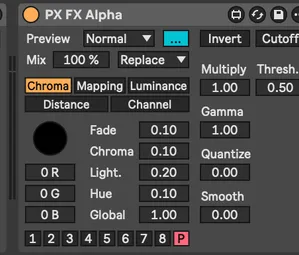
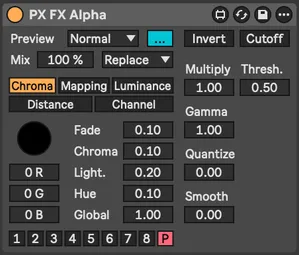
shader labels width fl, screenshots

Changed region(s): [[0.0, 0.0, 1.0, 0.9882]]

diff --git a/assets/devices.html b/assets/devices.html
@@ -1,47 +1,47 @@
 <div>
   <div>
-    <a href="#px-mix-view"><img src="./assets/devices/PX_Mix_View_(expanded)_v1.webp" title="PX Mix View" width="268"/></a>
-    <a href="#px-mix-channel"><img src="./assets/devices/PX_Mix_Channel_v1.webp" title="PX Mix Channel" width="70"/></a>
-    <a href="#in-mix"><img src="./assets/devices/PX_IN_Mix_v1.webp" title="IN Mix" width="70"/></a>
-    <a href="#fx-transform"><img src="./assets/devices/PX_FX_Transform_v1.webp" title="FX Transform" width="70"/></a>
-    <a href="#fx-convert"><img src="./assets/devices/PX_FX_Convert_(convert_back)_v1.webp" title="FX Convert" width="70"/></a>
+    <a href="#px-mix-view"><img src="./assets/devices/PX_Mix_View_(expanded)_v1.webp" title="PX Mix View" width="270"/></a>
+    <a href="#px-mix-channel"><img src="./assets/devices/PX_Mix_Channel_v1.webp" title="PX Mix Channel" width="71"/></a>
+    <a href="#in-mix"><img src="./assets/devices/PX_IN_Mix_v1.webp" title="IN Mix" width="71"/></a>
+    <a href="#fx-transform"><img src="./assets/devices/PX_FX_Transform_v1.webp" title="FX Transform" width="71"/></a>
+    <a href="#fx-convert"><img src="./assets/devices/PX_FX_Convert_(convert_back)_v1.webp" title="FX Convert" width="71"/></a>
     <a href="#px-route-midi"><img src="./assets/devices/PX_Route_MIDI_(linked)_v1.webp" title="PX Route MIDI" width="57"/></a>
-    <a href="#gen-text"><img src="./assets/devices/PX_GEN_Text_(expanded)_v1.webp" title="PX GEN Text" width="136"/></a>
+    <a href="#gen-text"><img src="./assets/devices/PX_GEN_Text_(expanded)_v1.webp" title="PX GEN Text" width="137"/></a>
   </div>
   <div>
-    <a href="#fx-pixelization"><img src="./assets/devices/PX_FX_Pixelization_v1.webp" title="FX Pixelization" width="138"/></a>
-    <a href="#fx-alpha"><img src="./assets/devices/PX_FX_Alpha_v1.webp" title="FX Alpha" width="115"/></a>
-    <a href="#in-image"><img src="./assets/devices/PX_IN_Image_v1.webp" title="IN Image" width="70"/></a>
-    <a href="#fx-pass"><img src="./assets/devices/PX_FX_Pass_v1.webp" title="FX Pass" width="70"/></a>
-    <a href="#fx-blur"><img src="./assets/devices/PX_FX_Blur_v1.webp" title="FX Blur" width="70"/></a>
+    <a href="#fx-pixelization"><img src="./assets/devices/PX_FX_Pixelization_v1.webp" title="FX Pixelization" width="139"/></a>
+    <a href="#fx-alpha"><img src="./assets/devices/PX_FX_Alpha_v1.webp" title="FX Alpha" width="116"/></a>
+    <a href="#in-image"><img src="./assets/devices/PX_IN_Image_v1.webp" title="IN Image" width="71"/></a>
+    <a href="#fx-pass"><img src="./assets/devices/PX_FX_Pass_v1.webp" title="FX Pass" width="71"/></a>
+    <a href="#fx-blur"><img src="./assets/devices/PX_FX_Blur_v1.webp" title="FX Blur" width="71"/></a>
     <a href="#px-route-audio"><img src="./assets/devices/PX_Route_Audio_v1.webp" title="PX Route Audio" width="57"/></a>
-    <a href="#px-shader"><img src="./assets/devices/PX_Shader_v1.webp" title="PX Shader" width="254"/></a>
+    <a href="#fx-color"><img src="./assets/devices/PX_FX_Color_(hue)_v1.webp" title="FX Color" width="249"/></a>
   </div>
   <div>
-    <a href="#fx-color"><img src="./assets/devices/PX_FX_Color_(hue)_v1.webp" title="FX Color" width="247"/></a>
-    <a href="#px-mix-dry"><img src="./assets/devices/PX_Mix_Dry_v1.webp" title="PX Mix Dry" width="70"/></a>
-    <a href="#in-svg"><img src="./assets/devices/PX_IN_SVG_v1.webp" title="IN SVG" width="70"/></a>
-    <a href="#gen-text"><img src="./assets/devices/PX_GEN_Text_v1.webp" title="PX GEN Text" width="70"/></a>
-    <a href="#fx-convert"><img src="./assets/devices/PX_FX_Convert_v1.webp" title="FX Convert" width="70"/></a>
+    <a href="#px-shader"><img src="./assets/devices/PX_Shader_v1.webp" title="PX Shader" width="244"/></a>
+    <a href="#px-mix-dry"><img src="./assets/devices/PX_Mix_Dry_v1.webp" title="PX Mix Dry" width="71"/></a>
+    <a href="#in-svg"><img src="./assets/devices/PX_IN_SVG_v1.webp" title="IN SVG" width="71"/></a>
+    <a href="#gen-text"><img src="./assets/devices/PX_GEN_Text_v1.webp" title="PX GEN Text" width="71"/></a>
+    <a href="#fx-convert"><img src="./assets/devices/PX_FX_Convert_v1.webp" title="FX Convert" width="71"/></a>
     <a href="#px-world"><img src="./assets/devices/PX_World_(mad_world)_v1.webp" title="PX World" width="63"/></a>
-    <a href="#px-shader"><img src="./assets/devices/PX_Shader_(types)_v1.webp" title="PX Shader" width="157"/></a>
+    <a href="#fx-color"><img src="./assets/devices/PX_FX_Color_(gamma)_v1.webp" title="FX Color" width="159"/></a>
   </div>
   <div>
-    <a href="#fx-color"><img src="./assets/devices/PX_FX_Color_(gamma)_v1.webp" title="FX Color" width="158"/></a>
-    <a href="#fx-colorize"><img src="./assets/devices/PX_FX_Colorize_v1.webp" title="FX Colorize" width="115"/></a>
-    <a href="#in-video"><img src="./assets/devices/PX_IN_Video_v1.webp" title="IN Video" width="70"/></a>
-    <a href="#in-channel"><img src="./assets/devices/PX_IN_Channel_v1.webp" title="IN Channel" width="70"/></a>
-    <a href="#fx-kaleidoscope"><img src="./assets/devices/PX_FX_Kaleidoscope_v1.webp" title="FX Kaleidoscope" width="70"/></a>
-    <a href="#dev-console"><img src="./assets/devices/DEV_Console_v1.webp" title="DEV Console" width="70"/></a>
-    <a href="#px-mix-view"><img src="./assets/devices/PX_Mix_View_v1.webp" title="PX Mix View" width="172"/></a>
+    <a href="#px-shader"><img src="./assets/devices/PX_Shader_(types)_v1.webp" title="PX Shader" width="160"/></a>
+    <a href="#fx-colorize"><img src="./assets/devices/PX_FX_Colorize_v1.webp" title="FX Colorize" width="116"/></a>
+    <a href="#in-video"><img src="./assets/devices/PX_IN_Video_v1.webp" title="IN Video" width="71"/></a>
+    <a href="#in-channel"><img src="./assets/devices/PX_IN_Channel_v1.webp" title="IN Channel" width="71"/></a>
+    <a href="#fx-kaleidoscope"><img src="./assets/devices/PX_FX_Kaleidoscope_v1.webp" title="FX Kaleidoscope" width="71"/></a>
+    <a href="#dev-console"><img src="./assets/devices/DEV_Console_v1.webp" title="DEV Console" width="71"/></a>
+    <a href="#px-mix-view"><img src="./assets/devices/PX_Mix_View_v1.webp" title="PX Mix View" width="173"/></a>
   </div>
   <div>
-    <a href="#fx-color"><img src="./assets/devices/PX_FX_Color_v1.webp" title="FX Color" width="165"/></a>
-    <a href="#dev-info"><img src="./assets/devices/DEV_Info_v1.webp" title="DEV Info" width="134"/></a>
-    <a href="#in-syphon"><img src="./assets/devices/PX_IN_Syphon_v1.webp" title="IN Syphon" width="70"/></a>
-    <a href="#in-cam"><img src="./assets/devices/PX_IN_Cam_v1.webp" title="IN Cam" width="70"/></a>
-    <a href="#fx-delay"><img src="./assets/devices/PX_FX_Delay_v1.webp" title="FX Delay" width="70"/></a>
+    <a href="#fx-color"><img src="./assets/devices/PX_FX_Color_v1.webp" title="FX Color" width="166"/></a>
+    <a href="#dev-info"><img src="./assets/devices/DEV_Info_v1.webp" title="DEV Info" width="135"/></a>
+    <a href="#in-syphon"><img src="./assets/devices/PX_IN_Syphon_v1.webp" title="IN Syphon" width="71"/></a>
+    <a href="#in-cam"><img src="./assets/devices/PX_IN_Cam_v1.webp" title="IN Cam" width="71"/></a>
+    <a href="#fx-delay"><img src="./assets/devices/PX_FX_Delay_v1.webp" title="FX Delay" width="71"/></a>
     <a href="#px-world"><img src="./assets/devices/PX_World_v1.webp" title="PX World" width="63"/></a>
-    <a href="#gen-cos-pattern"><img src="./assets/devices/PX_GEN_Cos_Pattern_v1.webp" title="PX GEN Cos Pattern" width="164"/></a>
+    <a href="#gen-cos-pattern"><img src="./assets/devices/PX_GEN_Cos_Pattern_v1.webp" title="PX GEN Cos Pattern" width="166"/></a>
   </div>
 </div>

diff --git a/scripts/screenshots.conf.js b/scripts/screenshots.conf.js
@@ -8,7 +8,7 @@ export default {
   devices: [
     [1, 'PX World', 248],
     [1, 'PX Mix View', 676, true],
-    [1, 'PX Shader', 856 + 72 * 2],
+    [1, 'PX Shader', 856 + 3 * 16 * 2],
     [1, 'PX Mix Channel', 276],
     [1, 'PX Mix Dry', 276],
     [1, 'PX FX Transform', 276],
@@ -36,7 +36,7 @@ export default {
     [4, 'PX FX Colorize', 452],
     [5, 'PX Mix View (expanded)', 1054],
     [5, 'PX Route MIDI (linked)', 224],
-    [5, 'PX Shader (types)', 592 + 24],
+    [5, 'PX Shader (types)', 592 + 16 * 2],
     [5, 'PX GEN Text (expanded)', 536],
     [5, 'PX FX Alpha', 452],
     [6, 'PX FX Pixelization', 544],

diff --git a/devices/PX Shader._width.js b/devices/PX Shader._width.js
@@ -6,7 +6,7 @@ let D = -1
 
 const s1 = 114 + 14
 const s2 = 60
-const s3 = 48 * 2 + 24
+const s3 = 48 * 2 + 16
 const s4 = 2
 
 function val (v) {

diff --git a/README.md b/README.md
@@ -8,49 +8,49 @@
 
 <div>
   <div>
-    <a href="#px-mix-view"><img src="./assets/devices/PX_Mix_View_(expanded)_v1.webp" title="PX Mix View" width="268"/></a>
-    <a href="#px-mix-channel"><img src="./assets/devices/PX_Mix_Channel_v1.webp" title="PX Mix Channel" width="70"/></a>
-    <a href="#in-mix"><img src="./assets/devices/PX_IN_Mix_v1.webp" title="IN Mix" width="70"/></a>
-    <a href="#fx-transform"><img src="./assets/devices/PX_FX_Transform_v1.webp" title="FX Transform" width="70"/></a>
-    <a href="#fx-convert"><img src="./assets/devices/PX_FX_Convert_(convert_back)_v1.webp" title="FX Convert" width="70"/></a>
+    <a href="#px-mix-view"><img src="./assets/devices/PX_Mix_View_(expanded)_v1.webp" title="PX Mix View" width="270"/></a>
+    <a href="#px-mix-channel"><img src="./assets/devices/PX_Mix_Channel_v1.webp" title="PX Mix Channel" width="71"/></a>
+    <a href="#in-mix"><img src="./assets/devices/PX_IN_Mix_v1.webp" title="IN Mix" width="71"/></a>
+    <a href="#fx-transform"><img src="./assets/devices/PX_FX_Transform_v1.webp" title="FX Transform" width="71"/></a>
+    <a href="#fx-convert"><img src="./assets/devices/PX_FX_Convert_(convert_back)_v1.webp" title="FX Convert" width="71"/></a>
     <a href="#px-route-midi"><img src="./assets/devices/PX_Route_MIDI_(linked)_v1.webp" title="PX Route MIDI" width="57"/></a>
-    <a href="#gen-text"><img src="./assets/devices/PX_GEN_Text_(expanded)_v1.webp" title="PX GEN Text" width="136"/></a>
+    <a href="#gen-text"><img src="./assets/devices/PX_GEN_Text_(expanded)_v1.webp" title="PX GEN Text" width="137"/></a>
   </div>
   <div>
-    <a href="#fx-pixelization"><img src="./assets/devices/PX_FX_Pixelization_v1.webp" title="FX Pixelization" width="138"/></a>
-    <a href="#fx-alpha"><img src="./assets/devices/PX_FX_Alpha_v1.webp" title="FX Alpha" width="115"/></a>
-    <a href="#in-image"><img src="./assets/devices/PX_IN_Image_v1.webp" title="IN Image" width="70"/></a>
-    <a href="#fx-pass"><img src="./assets/devices/PX_FX_Pass_v1.webp" title="FX Pass" width="70"/></a>
-    <a href="#fx-blur"><img src="./assets/devices/PX_FX_Blur_v1.webp" title="FX Blur" width="70"/></a>
+    <a href="#fx-pixelization"><img src="./assets/devices/PX_FX_Pixelization_v1.webp" title="FX Pixelization" width="139"/></a>
+    <a href="#fx-alpha"><img src="./assets/devices/PX_FX_Alpha_v1.webp" title="FX Alpha" width="116"/></a>
+    <a href="#in-image"><img src="./assets/devices/PX_IN_Image_v1.webp" title="IN Image" width="71"/></a>
+    <a href="#fx-pass"><img src="./assets/devices/PX_FX_Pass_v1.webp" title="FX Pass" width="71"/></a>
+    <a href="#fx-blur"><img src="./assets/devices/PX_FX_Blur_v1.webp" title="FX Blur" width="71"/></a>
     <a href="#px-route-audio"><img src="./assets/devices/PX_Route_Audio_v1.webp" title="PX Route Audio" width="57"/></a>
-    <a href="#px-shader"><img src="./assets/devices/PX_Shader_v1.webp" title="PX Shader" width="254"/></a>
+    <a href="#fx-color"><img src="./assets/devices/PX_FX_Color_(hue)_v1.webp" title="FX Color" width="249"/></a>
   </div>
   <div>
-    <a href="#fx-color"><img src="./assets/devices/PX_FX_Color_(hue)_v1.webp" title="FX Color" width="247"/></a>
-    <a href="#px-mix-dry"><img src="./assets/devices/PX_Mix_Dry_v1.webp" title="PX Mix Dry" width="70"/></a>
-    <a href="#in-svg"><img src="./assets/devices/PX_IN_SVG_v1.webp" title="IN SVG" width="70"/></a>
-    <a href="#gen-text"><img src="./assets/devices/PX_GEN_Text_v1.webp" title="PX GEN Text" width="70"/></a>
-    <a href="#fx-convert"><img src="./assets/devices/PX_FX_Convert_v1.webp" title="FX Convert" width="70"/></a>
+    <a href="#px-shader"><img src="./assets/devices/PX_Shader_v1.webp" title="PX Shader" width="244"/></a>
+    <a href="#px-mix-dry"><img src="./assets/devices/PX_Mix_Dry_v1.webp" title="PX Mix Dry" width="71"/></a>
+    <a href="#in-svg"><img src="./assets/devices/PX_IN_SVG_v1.webp" title="IN SVG" width="71"/></a>
+    <a href="#gen-text"><img src="./assets/devices/PX_GEN_Text_v1.webp" title="PX GEN Text" width="71"/></a>
+    <a href="#fx-convert"><img src="./assets/devices/PX_FX_Convert_v1.webp" title="FX Convert" width="71"/></a>
     <a href="#px-world"><img src="./assets/devices/PX_World_(mad_world)_v1.webp" title="PX World" width="63"/></a>
-    <a href="#px-shader"><img src="./assets/devices/PX_Shader_(types)_v1.webp" title="PX Shader" width="157"/></a>
+    <a href="#fx-color"><img src="./assets/devices/PX_FX_Color_(gamma)_v1.webp" title="FX Color" width="159"/></a>
   </div>
   <div>
-    <a href="#fx-color"><img src="./assets/devices/PX_FX_Color_(gamma)_v1.webp" title="FX Color" width="158"/></a>
-    <a href="#fx-colorize"><img src="./assets/devices/PX_FX_Colorize_v1.webp" title="FX Colorize" width="115"/></a>
-    <a href="#in-video"><img src="./assets/devices/PX_IN_Video_v1.webp" title="IN Video" width="70"/></a>
-    <a href="#in-channel"><img src="./assets/devices/PX_IN_Channel_v1.webp" title="IN Channel" width="70"/></a>
-    <a href="#fx-kaleidoscope"><img src="./assets/devices/PX_FX_Kaleidoscope_v1.webp" title="FX Kaleidoscope" width="70"/></a>
-    <a href="#dev-console"><img src="./assets/devices/DEV_Console_v1.webp" title="DEV Console" width="70"/></a>
-    <a href="#px-mix-view"><img src="./assets/devices/PX_Mix_View_v1.webp" title="PX Mix View" width="172"/></a>
+    <a href="#px-shader"><img src="./assets/devices/PX_Shader_(types)_v1.webp" title="PX Shader" width="160"/></a>
+    <a href="#fx-colorize"><img src="./assets/devices/PX_FX_Colorize_v1.webp" title="FX Colorize" width="116"/></a>
+    <a href="#in-video"><img src="./assets/devices/PX_IN_Video_v1.webp" title="IN Video" width="71"/></a>
+    <a href="#in-channel"><img src="./assets/devices/PX_IN_Channel_v1.webp" title="IN Channel" width="71"/></a>
+    <a href="#fx-kaleidoscope"><img src="./assets/devices/PX_FX_Kaleidoscope_v1.webp" title="FX Kaleidoscope" width="71"/></a>
+    <a href="#dev-console"><img src="./assets/devices/DEV_Console_v1.webp" title="DEV Console" width="71"/></a>
+    <a href="#px-mix-view"><img src="./assets/devices/PX_Mix_View_v1.webp" title="PX Mix View" width="173"/></a>
   </div>
   <div>
-    <a href="#fx-color"><img src="./assets/devices/PX_FX_Color_v1.webp" title="FX Color" width="165"/></a>
-    <a href="#dev-info"><img src="./assets/devices/DEV_Info_v1.webp" title="DEV Info" width="134"/></a>
-    <a href="#in-syphon"><img src="./assets/devices/PX_IN_Syphon_v1.webp" title="IN Syphon" width="70"/></a>
-    <a href="#in-cam"><img src="./assets/devices/PX_IN_Cam_v1.webp" title="IN Cam" width="70"/></a>
-    <a href="#fx-delay"><img src="./assets/devices/PX_FX_Delay_v1.webp" title="FX Delay" width="70"/></a>
+    <a href="#fx-color"><img src="./assets/devices/PX_FX_Color_v1.webp" title="FX Color" width="166"/></a>
+    <a href="#dev-info"><img src="./assets/devices/DEV_Info_v1.webp" title="DEV Info" width="135"/></a>
+    <a href="#in-syphon"><img src="./assets/devices/PX_IN_Syphon_v1.webp" title="IN Syphon" width="71"/></a>
+    <a href="#in-cam"><img src="./assets/devices/PX_IN_Cam_v1.webp" title="IN Cam" width="71"/></a>
+    <a href="#fx-delay"><img src="./assets/devices/PX_FX_Delay_v1.webp" title="FX Delay" width="71"/></a>
     <a href="#px-world"><img src="./assets/devices/PX_World_v1.webp" title="PX World" width="63"/></a>
-    <a href="#gen-cos-pattern"><img src="./assets/devices/PX_GEN_Cos_Pattern_v1.webp" title="PX GEN Cos Pattern" width="164"/></a>
+    <a href="#gen-cos-pattern"><img src="./assets/devices/PX_GEN_Cos_Pattern_v1.webp" title="PX GEN Cos Pattern" width="166"/></a>
   </div>
 </div>
 
